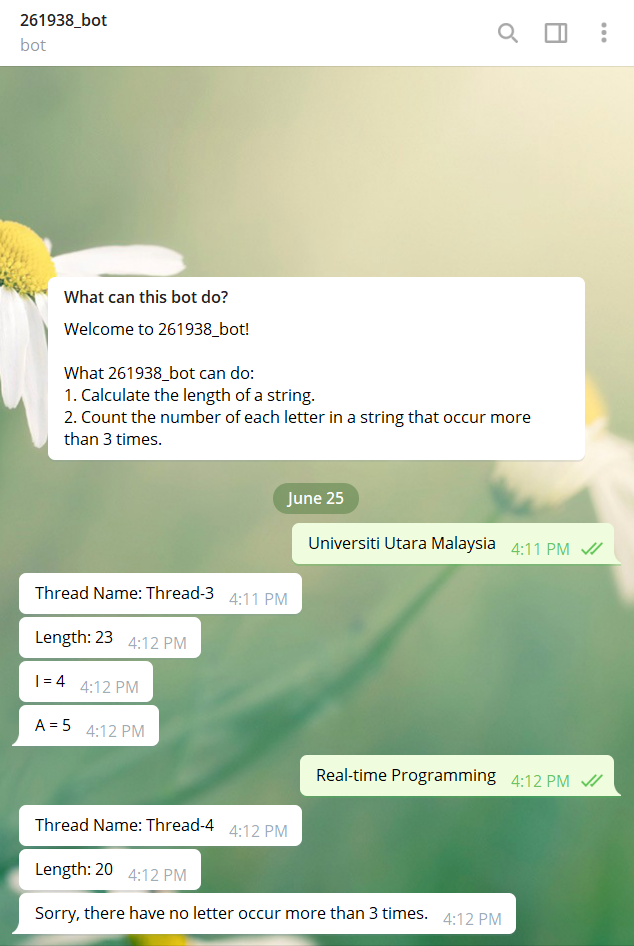
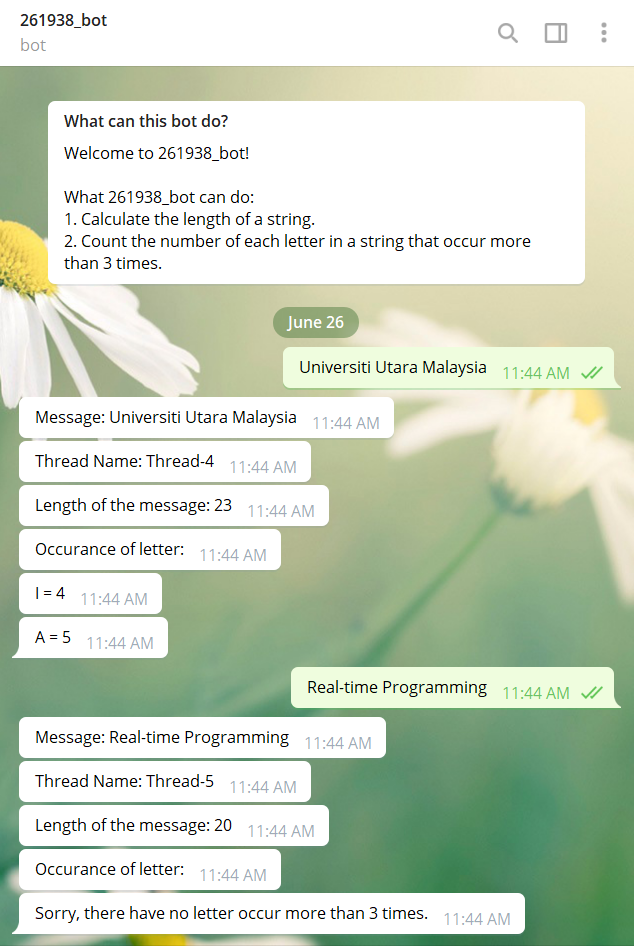
Update Assignment 3

diff --git a/src/main/java/my/example/TelegramBot/MyBot.java b/src/main/java/my/example/TelegramBot/MyBot.java
@@ -30,8 +30,10 @@ public class MyBot extends TelegramLongPollingBot {
                 count.writeObj();
                 readObj();
 
+                execute(message.setText("Message: " + input + "\n"));
                 execute(message.setText("Thread Name: " + Thread.currentThread().getName()));
-                execute(message.setText("Length: " + count.length(input)));
+                execute(message.setText("Length of the message: " + count.length(input)));
+                execute(message.setText("Occurance of letter:"));
 
                 if (objectList.size() > temp) {
                     for (int i = temp; i < objectList.size(); i++) {
